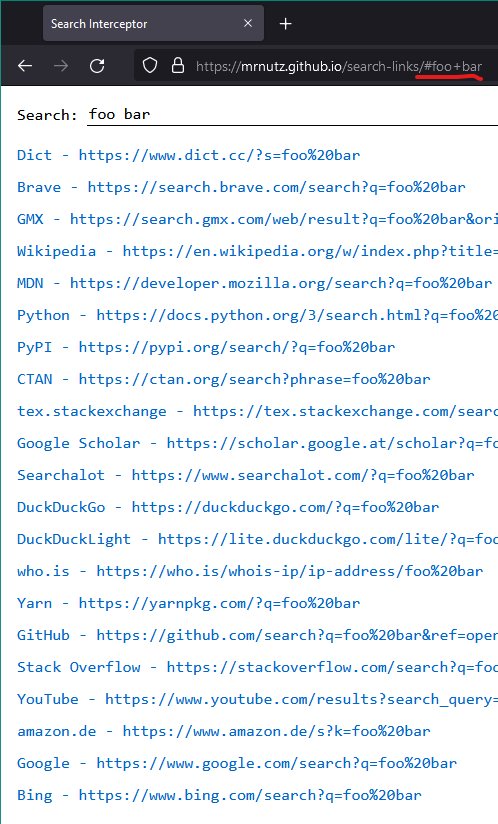
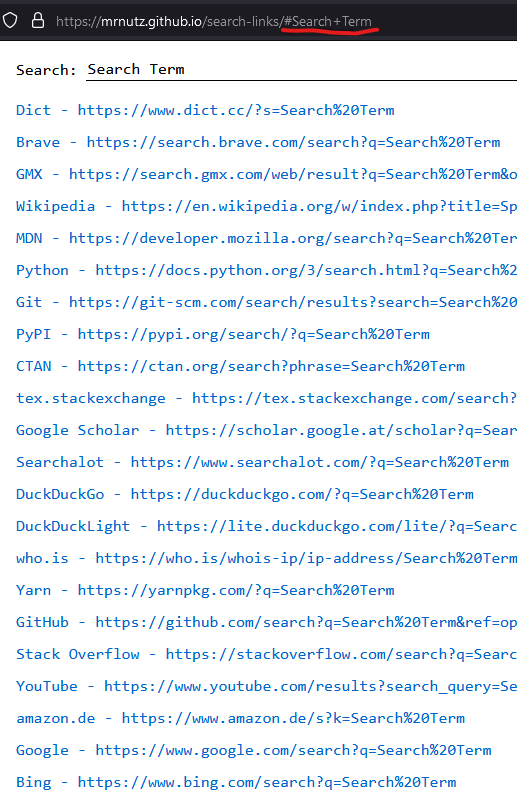
readme include link

Changed region(s): [[0.0, 0.0, 1.0, 0.995]]

diff --git a/app.js b/app.js
@@ -7,6 +7,7 @@ const engines = [
   ['GMX', 'https://search.gmx.com/web/result?q=%s&origin=web&comp=web_start_sf&p=gmx-com'],
   ['Wikipedia', 'https://en.wikipedia.org/w/index.php?title=Special:Search&search=%s'],
   ['MDN', 'https://developer.mozilla.org/search?q=%s'],
+  ['SoundCloud', 'https://soundcloud.com/search?q=%s'],
   ['Python', 'https://docs.python.org/3/search.html?q=%s&check_keywords=yes&area=default'],
   ['Git', 'https://git-scm.com/search/results?search=%s'],
   ['PyPI', 'https://pypi.org/search/?q=%s'],

diff --git a/README.md b/README.md
@@ -1,6 +1,6 @@
 # Search Interceptor
 
 ## Usage
-Pass a search query via hash: `.../search-links/#<search-query>`
+Pass a search query via hash: https://mrnutz.github.io/search-links/#Search+Term
 
 ![screenshot](./screenshot.png)
